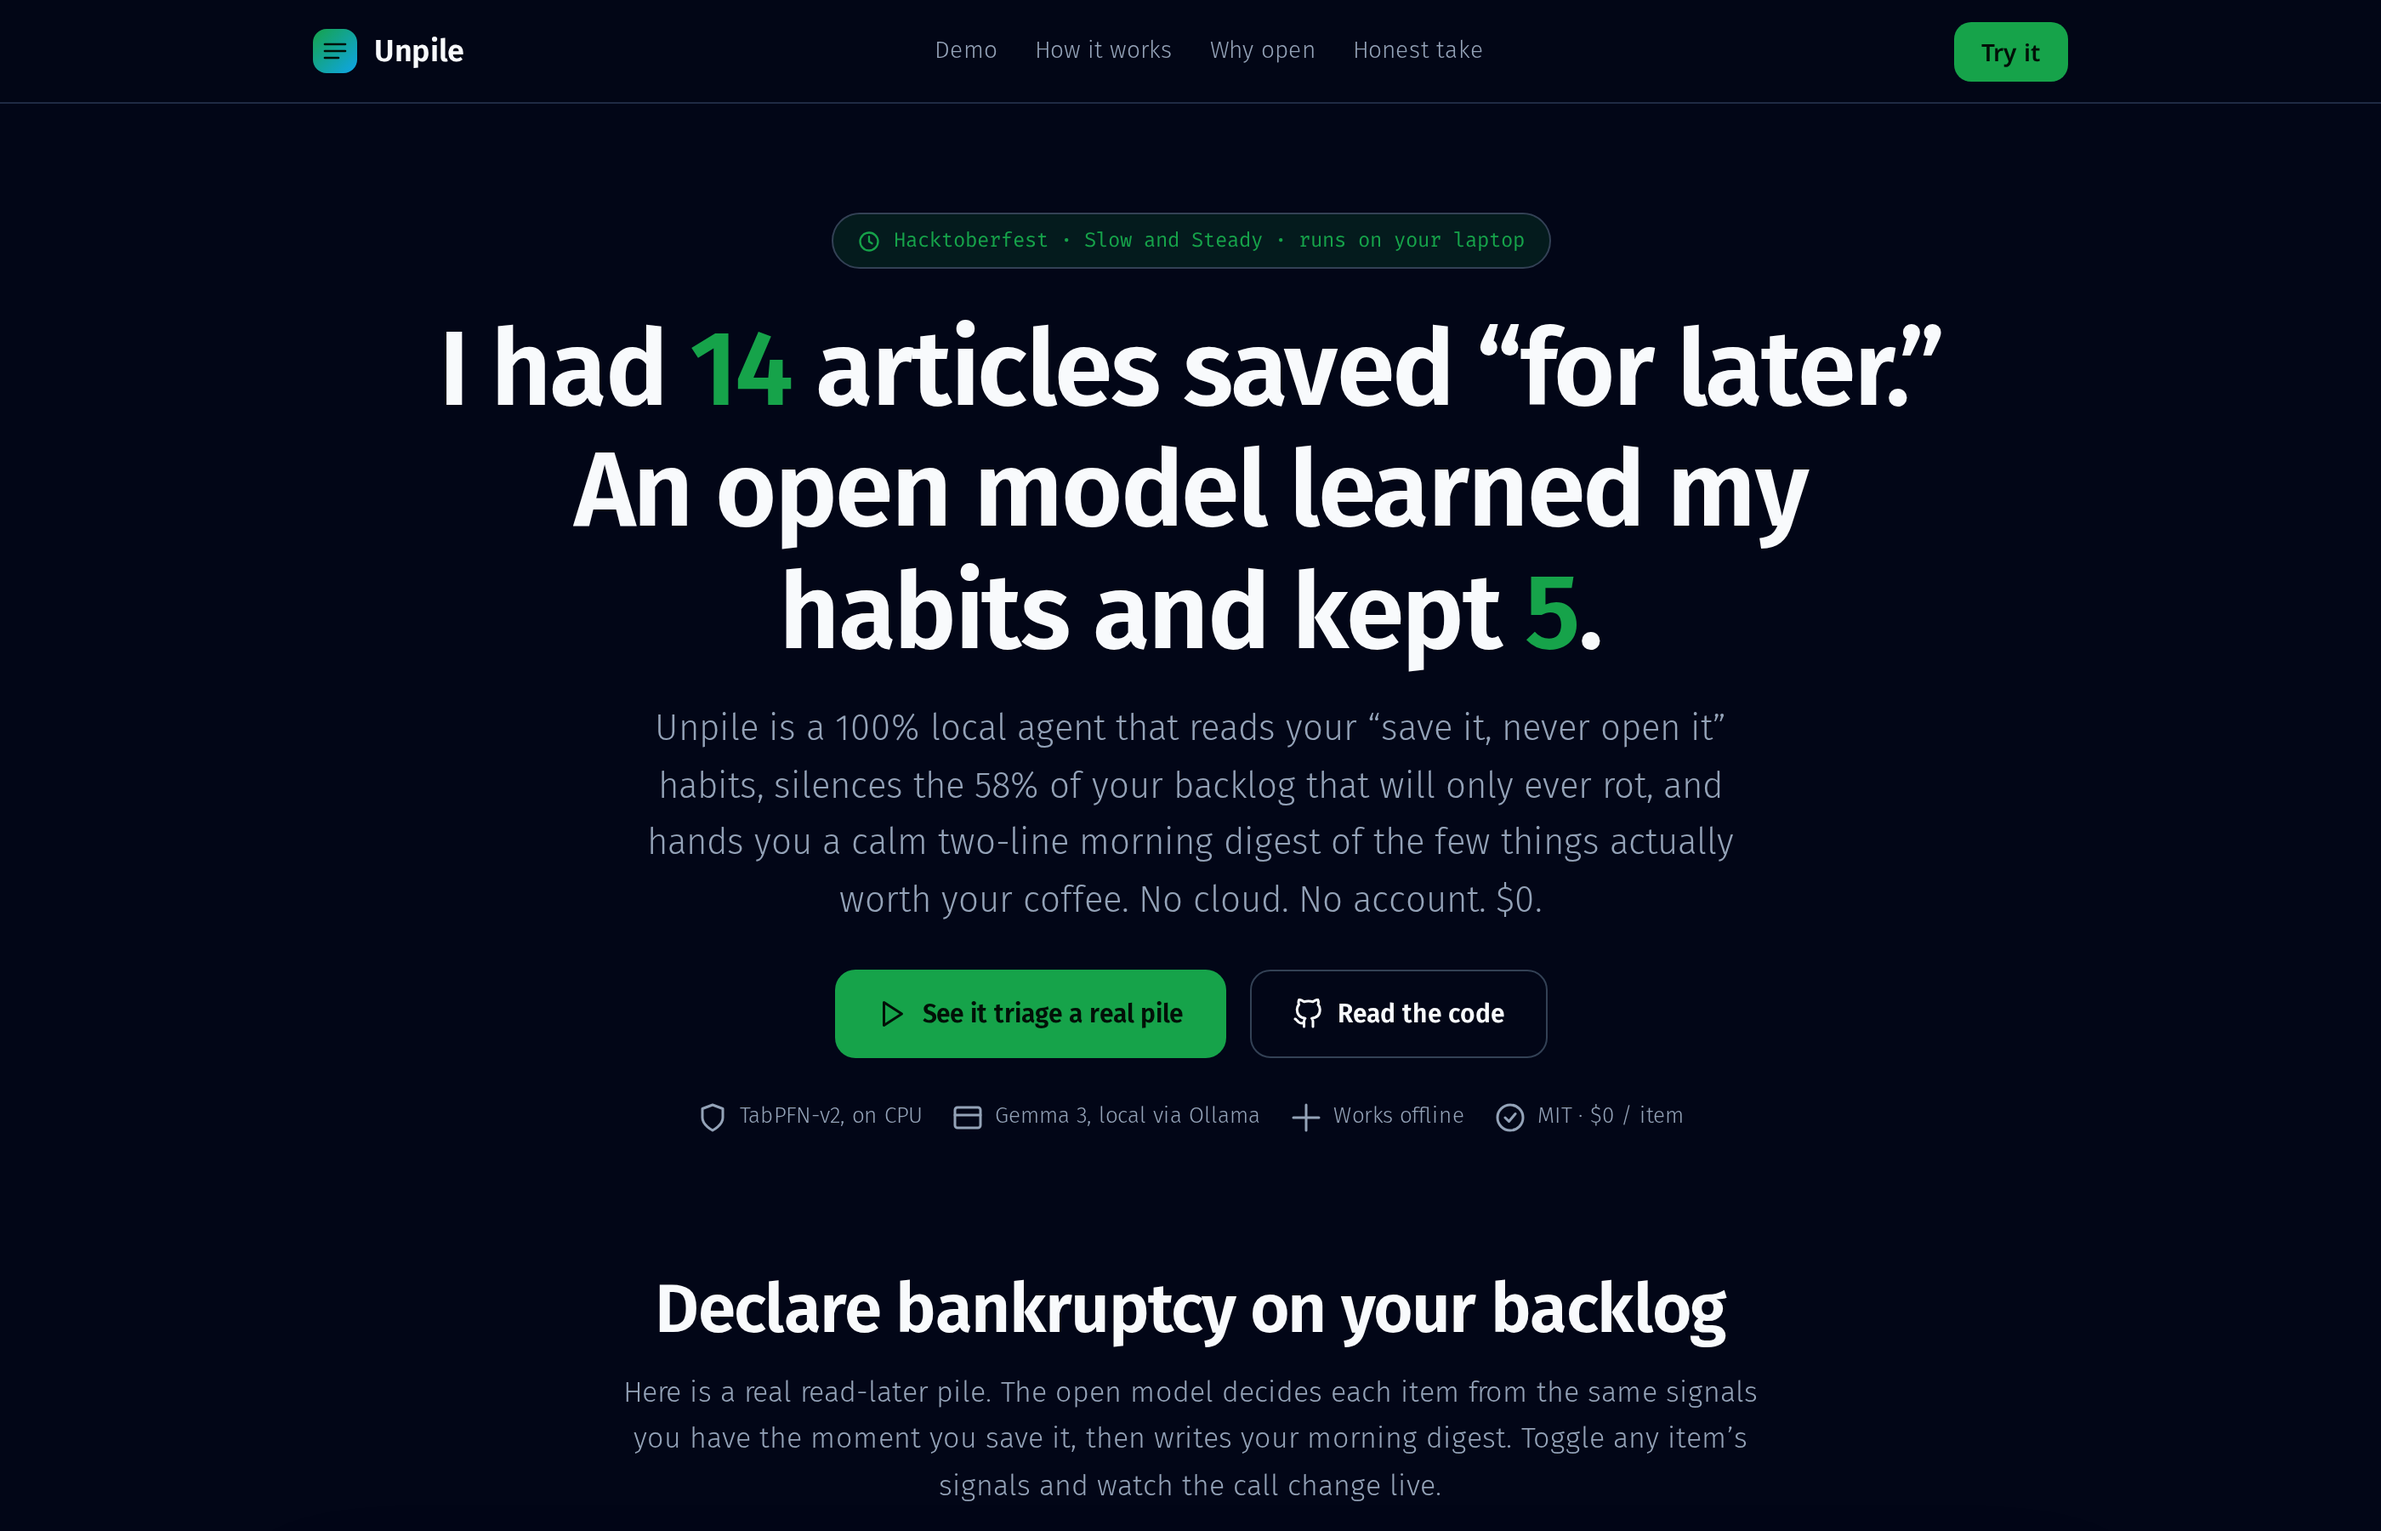
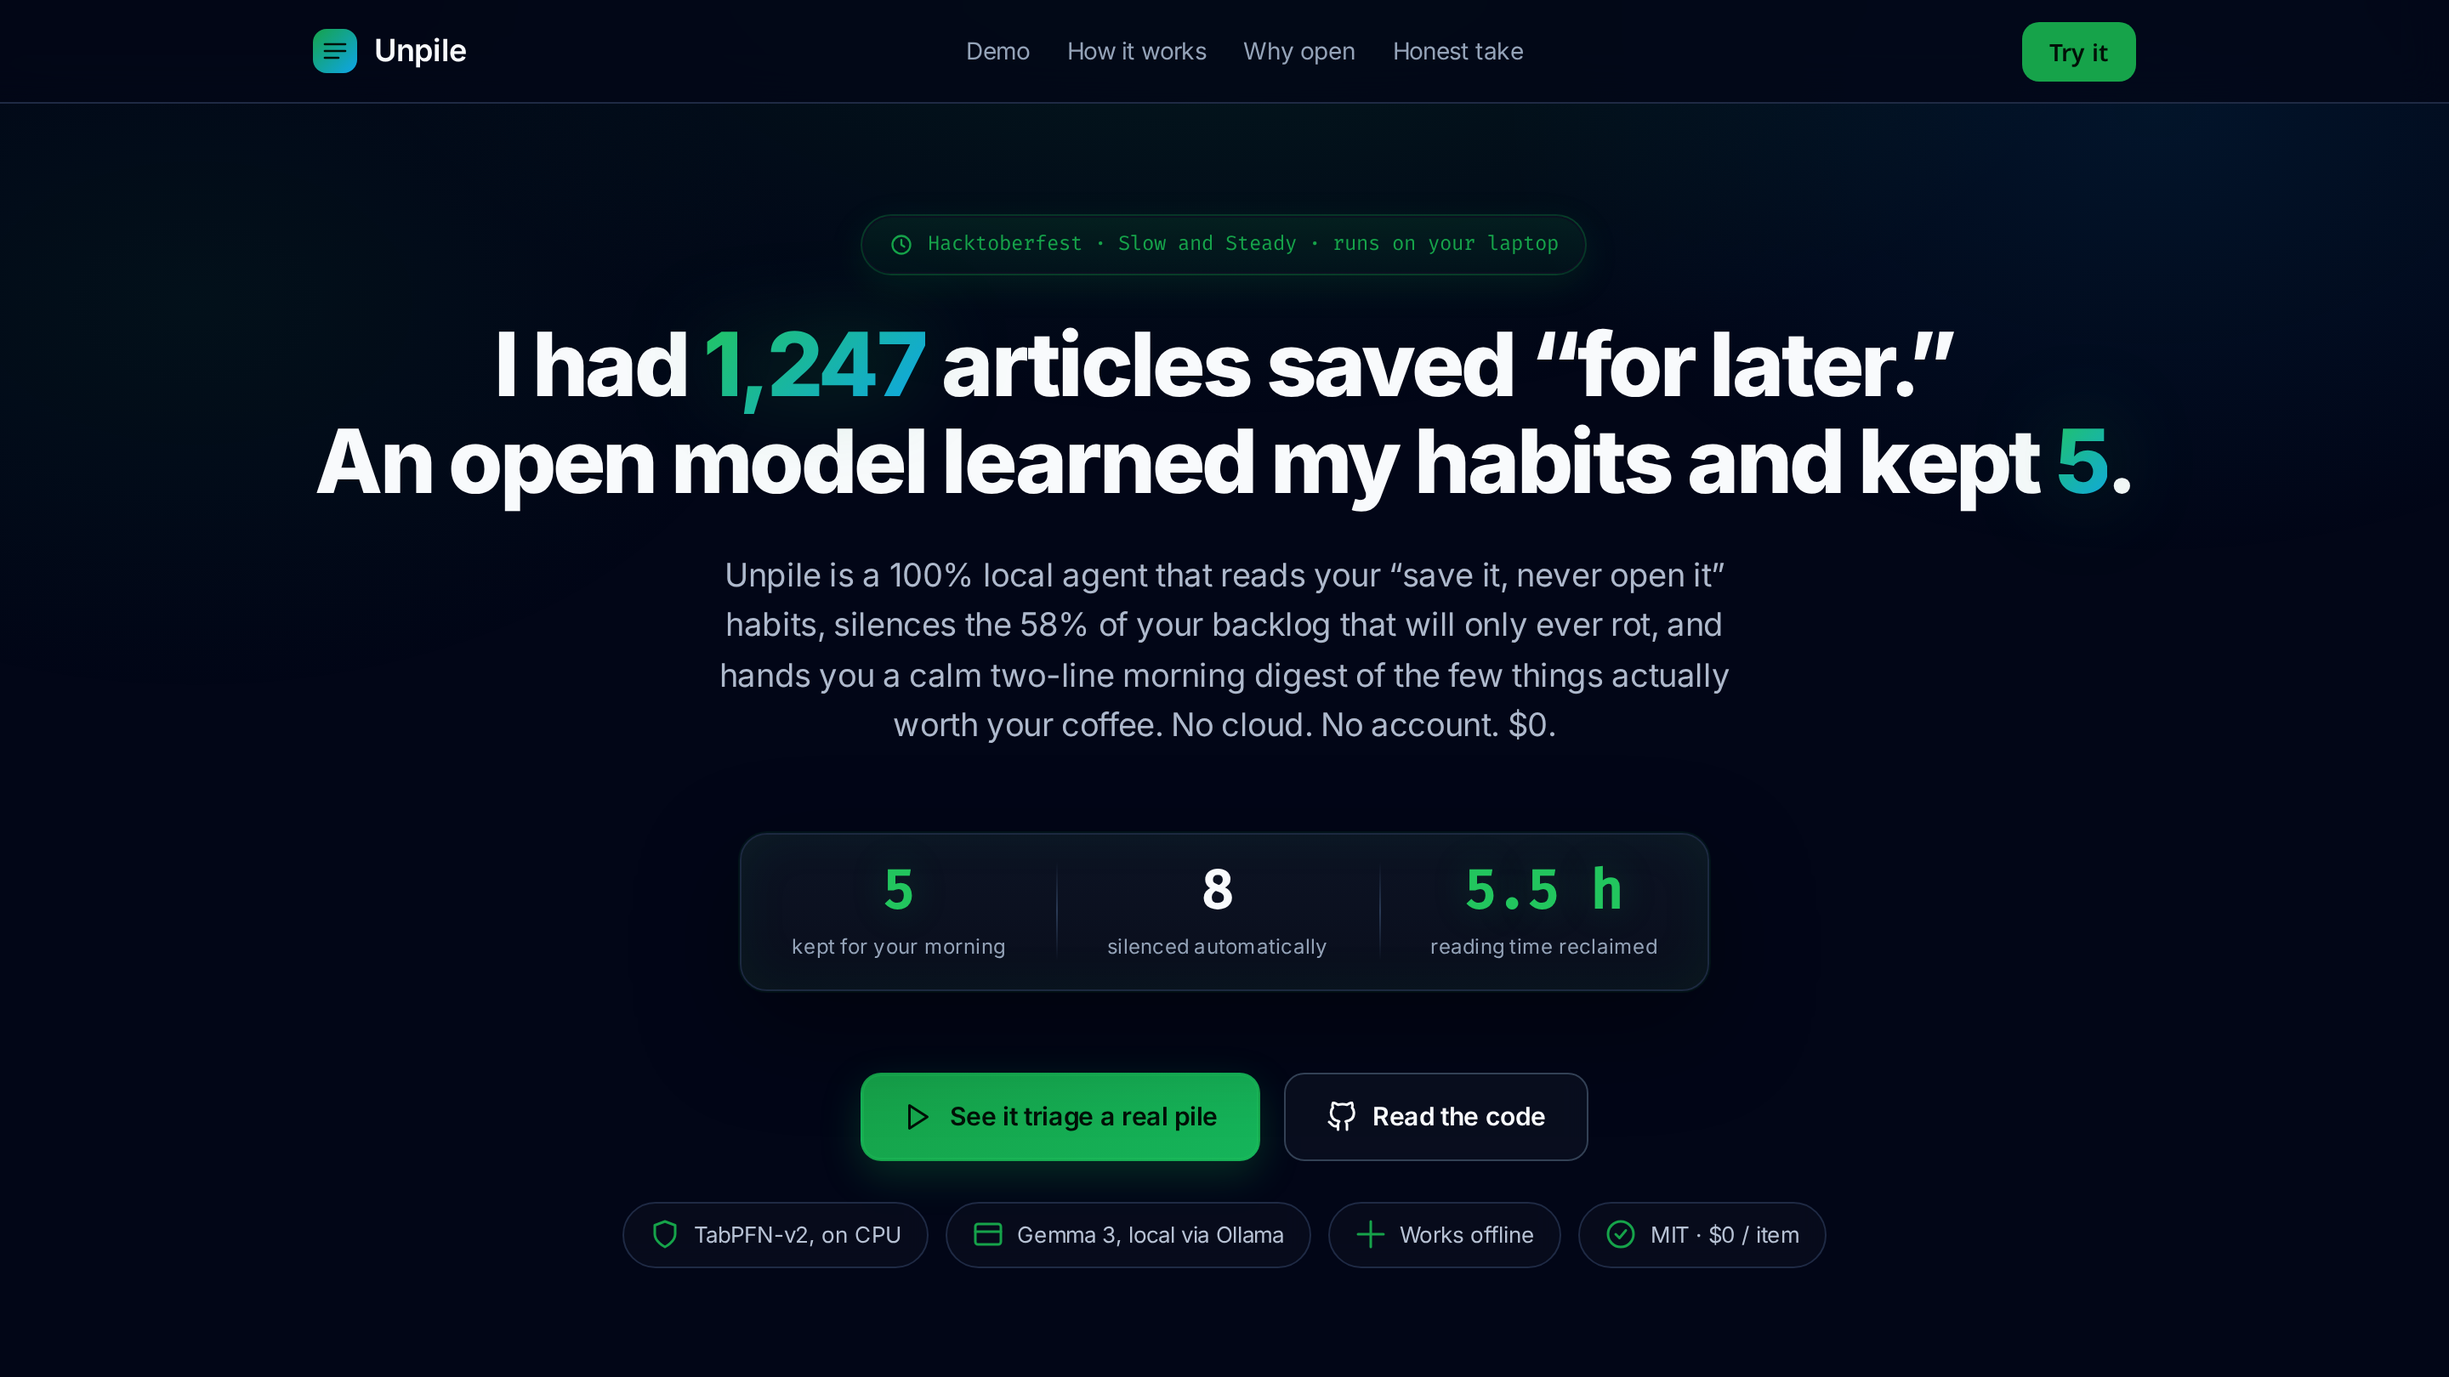
docs: refresh hero + result screenshots to the new premium UI; add both to README; switch article image paths to absolute raw.githubusercontent URLs so they render on dev.to

diff --git a/README.md b/README.md
@@ -19,6 +19,10 @@ Unpile is a 100% local agent that learns which is which, and clears the pile for
 
 [Live Preview](https://simplynadaf.github.io/unpile-read-later-triage) &nbsp;|&nbsp; [How It Works](#how-it-works-two-open-models-one-job-each) &nbsp;|&nbsp; [Why Open](#why-open-innovation-matters) &nbsp;|&nbsp; [The Honest Take](#the-honest-take)
 
+<br/>
+
+<img src="https://raw.githubusercontent.com/simplynadaf/unpile-read-later-triage/main/docs/screenshots/hero.png" alt="Unpile: a 100% local read-later triage agent powered by TabPFN-v2 and Gemma 3" width="100%"/>
+
 </div>
 
 ---
@@ -47,6 +51,11 @@ reading time you were never going to spend anyway.
 | **A short "keep" list** | Only the items you are actually likely to read, ranked by probability, each with the plain-language reasons it survived (reopened 3x, in your lane, actionable how-to). |
 | **A calm morning digest** | A local Gemma model turns the keepers into a warm, low-pressure two-line note, so your morning starts with a nudge, not a backlog. |
 | **A measured, honest scorecard** | Held-out precision and recall, the share of the pile it safely silences, a **lift** number (how much better the kept pile reads than a random item), and the good items it wrongly drops. No hiding the cost. |
+
+<div align="center">
+<img src="https://raw.githubusercontent.com/simplynadaf/unpile-read-later-triage/main/docs/screenshots/result.png" alt="Unpile triaging a real read-later pile: 5 kept with reasons, 1 maybe, 8 silenced, 5.5 hours reclaimed, with a Gemma morning digest" width="100%"/>
+<br/><em>A real backlog triaged on-device: 5 kept (with reasons), 1 maybe, 8 silenced, 5.5 hours reclaimed.</em>
+</div>
 
 ---
 

diff --git a/docs/devto-article.md b/docs/devto-article.md
@@ -35,11 +35,11 @@ Live, in your browser (no setup, real baked model output): **https://simplynadaf
 
 Here is the demo pile getting triaged. On the left, the five items worth my morning, each with the reasons it survived and a one-line digest from Gemma. In the middle, the one borderline "maybe" it set aside for a quick skim. On the right, the eight it silenced: the two-hour video essay I saved at 11pm, the "someday build a cabin" photo essay, the tabs-versus-spaces flamewar.
 
-![Unpile triaging a read-later pile: 5 kept, 1 maybe, 8 silenced, 5.5 hours reclaimed](docs/screenshots/hero.png)
+![Unpile triaging a read-later pile: 5 kept, 1 maybe, 8 silenced, 5.5 hours reclaimed](https://raw.githubusercontent.com/simplynadaf/unpile-read-later-triage/main/docs/screenshots/hero.png)
 
 The keep, maybe, and silenced columns, side by side, each with probabilities and reasons:
 
-![The keep, skim, and drop columns with probabilities and reasons](docs/screenshots/result.png)
+![The keep, skim, and drop columns with probabilities and reasons](https://raw.githubusercontent.com/simplynadaf/unpile-read-later-triage/main/docs/screenshots/result.png)
 
 The whole thing runs on a plain CPU. The numbers on the page are the real TabPFN-v2 and Gemma output, frozen into the static site so the demo cannot break in front of you; toggle any item and an in-browser mirror of the model re-decides live.
 
